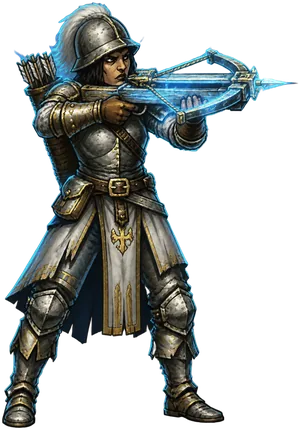
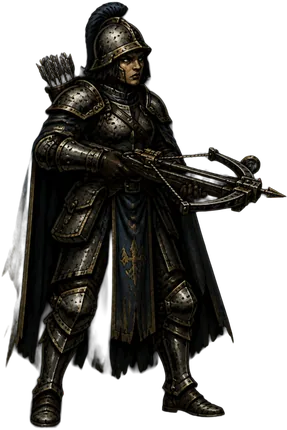
Arbalétrière : armure palier V repeinte
Claude-Session: https://claude.ai/code/session_01XuxscubMSQPeew8BrSfQGu

diff --git a/index.html b/index.html
@@ -211,7 +211,7 @@ p{margin:6px 0;line-height:1.45}
 <div id="boot"><div class="bootin"><img src="assets/ui_emblem.webp" alt="" onerror="this.remove()"><h1>Couronne de Cendres</h1><div class="bootbar"><i></i></div><div class="boottxt">Les braises s'allument…</div><button class="btn ghost sm" id="bootskip" style="display:none">Continuer sans attendre</button></div></div>
 <div id="toasts" aria-live="polite"></div>
 <script>window.CC_SW = 1;</script><script>
-window.ART_LIST=["bg_abime","bg_bastion","bg_bastion2","bg_bourg","bg_catacombes","bg_citadelle","bg_foret","bg_marais","bg_terres","bg_titre","bld_academie","bld_chapelle","bld_fonderie","bld_forge","bld_menagerie","bld_porte","bld_taverne","hero_arbaletriere_chasseresse","hero_arbaletriere_t1","hero_arbaletriere_t2","hero_arbaletriere_t3","hero_arbaletriere_t4","hero_arbaletriere_t5","hero_arbaletriere_tireuse_elite","hero_berserker_chef_guerre","hero_berserker_ecorcheur","hero_berserker_t1","hero_berserker_t2","hero_berserker_t3","hero_berserker_t4","hero_berserker_t5","hero_chasseur_sorcieres_purificateur","hero_chasseur_sorcieres_t1","hero_chasseur_sorcieres_t2","hero_chasseur_sorcieres_t3","hero_chasseur_sorcieres_t4","hero_chasseur_sorcieres_t5","hero_chasseur_sorcieres_traqueur","hero_exorciste_confesseur","hero_exorciste_penitent","hero_exorciste_t1","hero_exorciste_t2","hero_exorciste_t3","hero_exorciste_t4","hero_exorciste_t5","hero_gardien_runes_forge_tonnerre","hero_gardien_runes_t1","hero_gardien_runes_t2","hero_gardien_runes_t3","hero_gardien_runes_t4","hero_gardien_runes_t5","hero_gardien_runes_thane_pierre","hero_hallebardier_garde_roi","hero_hallebardier_lansquenet","hero_hallebardier_t1","hero_hallebardier_t2","hero_hallebardier_t3","hero_hallebardier_t4","hero_hallebardier_t5","hero_medecin_peste_apothicaire","hero_medecin_peste_chirurgien","hero_medecin_peste_t1","hero_medecin_peste_t2","hero_medecin_peste_t3","hero_medecin_peste_t4","hero_medecin_peste_t5","hero_menestrel_chantre","hero_menestrel_heraut","hero_menestrel_t1","hero_menestrel_t2","hero_menestrel_t3","hero_menestrel_t4","hero_menestrel_t5","hero_necromancien_liche","hero_necromancien_maitre_tombes","hero_necromancien_t1","hero_necromancien_t2","hero_necromancien_t3","hero_necromancien_t4","hero_necromancien_t5","hero_ombre_assassin","hero_ombre_ombre_sang","hero_ombre_t1","hero_ombre_t2","hero_ombre_t3","hero_ombre_t4","hero_ombre_t5","hero_pretresse_martyre","hero_pretresse_sainte","hero_pretresse_t1","hero_pretresse_t2","hero_pretresse_t3","hero_pretresse_t4","hero_pretresse_t5","hero_pyromancien_archimage","hero_pyromancien_demoniste","hero_pyromancien_t1","hero_pyromancien_t2","hero_pyromancien_t3","hero_pyromancien_t4","hero_pyromancien_t5","hero_revenant_seigneur_sang","hero_revenant_spectre","hero_revenant_t1","hero_revenant_t2","hero_revenant_t3","hero_revenant_t4","hero_revenant_t5","hero_sorciere_druidesse","hero_sorciere_sorciere_noire","hero_sorciere_t1","hero_sorciere_t2","hero_sorciere_t3","hero_sorciere_t4","hero_sorciere_t5","hero_templier_bastion","hero_templier_inquisiteur","hero_templier_t1","hero_templier_t2","hero_templier_t3","hero_templier_t4","hero_templier_t5","map_boss","map_camp","map_combat","map_elite","map_event","map_shop","map_treasure","mon_abbe","mon_alpha","mon_araignee","mon_archer","mon_archer_os","mon_archonte_cendres","mon_boucher","mon_bourreau","mon_brigand","mon_cardinal","mon_charognard","mon_chevalier_dechu","mon_chevalier_os","mon_chevaucheur_calcine","mon_chien_cendre","mon_colosse_braise","mon_crapaud","mon_cultiste","mon_devoreur_lumiere","mon_diablotin","mon_docteur","mon_dryade","mon_follet","mon_gargouille","mon_golem","mon_goule","mon_hallebardier_os","mon_horreur","mon_hydre","mon_inquisiteur","mon_liche","mon_loup","mon_matrone_os","mon_mere_noyes","mon_mere_ronces","mon_moine_flagellant","mon_necrophage","mon_noye","mon_oeil","mon_ogre","mon_pecheur","mon_pendu","mon_penitent_ardent","mon_pestifere","mon_pretre_suie","mon_prieur","mon_profond","mon_rat","mon_reine_sabbat","mon_roi","mon_sangsue","mon_sans_nom","mon_sans_visage","mon_sentinelle_obsidienne","mon_sorciere_marais","mon_spectre","mon_squelette","mon_thuriferaire","pet_araignee","pet_araignee_evo","pet_belette","pet_cerf","pet_cerf_evo","pet_chat_noir","pet_chat_noir_evo","pet_chauve_souris","pet_chauve_souris_evo","pet_chouette","pet_chouette_evo","pet_corbeau","pet_corbeau_evo","pet_crapaud","pet_crapaud_evo","pet_drake","pet_drake_evo","pet_feu_follet","pet_feu_follet_evo","pet_gargouille","pet_gargouille_evo","pet_griffon","pet_griffon_evo","pet_loup","pet_loup_evo","pet_molosse","pet_molosse_evo","pet_ours","pet_ours_evo","pet_renard","pet_renard_evo","pet_salamandre","pet_salamandre_evo","pet_sanglier","pet_sanglier_evo","pet_vipere","pet_vipere_evo","tr_amulette_sel","tr_bague_fer","tr_cape_brume","tr_chapelet","tr_cloche_morte","tr_coeur_braise","tr_coeur_roi","tr_couronne_epines","tr_crane_saint","tr_croc_vampire","tr_dent_loup","tr_ecu_brise","tr_fiole_sang","tr_fragment_couronne","tr_gant_bourreau","tr_griffe_ombre","tr_herbe_rare","tr_oeil_abime","tr_oeil_verre","tr_phylactere","tr_pierre_ame","tr_plume_corbeau","tr_relique_aube","tr_sablier","tr_sceau_rouge","ui_aim","ui_amulet","ui_anvil","ui_armor","ui_axe","ui_back","ui_bag","ui_banner","ui_bark","ui_bell","ui_bird","ui_bless","ui_blood","ui_bolt","ui_bones","ui_book","ui_boom","ui_camp","ui_castle","ui_chain","ui_chapel","ui_charge","ui_chest","ui_claw","ui_cleanse","ui_cloak","ui_coin","ui_crown","ui_cup","ui_curse","ui_dagger","ui_daily","ui_dice","ui_drain","ui_ember","ui_emblem","ui_essence","ui_eye","ui_fang","ui_fear","ui_feather","ui_fire","ui_flames","ui_flare","ui_flask","ui_flee","ui_frost","ui_furnace","ui_gear","ui_gem","ui_ghost","ui_glove","ui_guard","ui_hammer","ui_hand","ui_heal","ui_heart","ui_helm","ui_herb","ui_horn","ui_hourglass","ui_iron","ui_knives","ui_link","ui_lock","ui_lute","ui_mace","ui_map","ui_mark","ui_mask","ui_meteor","ui_moon","ui_music","ui_note","ui_pact","ui_paw","ui_pawn","ui_pierce","ui_pillar","ui_potion","ui_quest","ui_rage","ui_rain","ui_ray","ui_ring","ui_riposte","ui_root","ui_rosary","ui_run","ui_sanct","ui_scroll","ui_scythe","ui_seal","ui_shard","ui_shield","ui_shroud","ui_skull","ui_skullc","ui_smoke","ui_sound","ui_star","ui_stun","ui_sun","ui_sword","ui_swords","ui_tavern","ui_thorn","ui_torch","ui_trap","ui_tree","ui_trophy","ui_vial","ui_wall","ui_weapon","ui_whirl","ui_wind","wpn_arbalete","wpn_baton","wpn_croix","wpn_dagues","wpn_encensoir","wpn_espadon","wpn_faucille","wpn_faux","wpn_grimoire","wpn_hache","wpn_hallebarde","wpn_luth","wpn_marteau","wpn_masse","wpn_rapiere"];window.ART_META={"hero_arbaletriere_chasseresse": 0.019,"hero_arbaletriere_t1": 0.009,"hero_arbaletriere_t2": 0.009,"hero_arbaletriere_t3": 0.007,"hero_arbaletriere_t4": 0.007,"hero_arbaletriere_t5": 0.009,"hero_arbaletriere_tireuse_elite": 0.007,"hero_berserker_chef_guerre": 0.03,"hero_berserker_ecorcheur": 0.007,"hero_berserker_t1": 0.014,"hero_berserker_t2": 0.009,"hero_berserker_t3": 0.009,"hero_berserker_t4": 0.007,"hero_berserker_t5": 0.007,"hero_chasseur_sorcieres_purificateur": 0.056,"hero_chasseur_sorcieres_t1": 0.007,"hero_chasseur_sorcieres_t2": 0.009,"hero_chasseur_sorcieres_t3": 0.007,"hero_chasseur_sorcieres_t4": 0.007,"hero_chasseur_sorcieres_t5": 0.012,"hero_chasseur_sorcieres_traqueur": 0.007,"hero_exorciste_confesseur": 0.005,"hero_exorciste_penitent": 0.028,"hero_exorciste_t1": 0.04,"hero_exorciste_t2": 0.065,"hero_exorciste_t3": 0.074,"hero_exorciste_t4": 0.072,"hero_exorciste_t5": 0.03,"hero_gardien_runes_forge_tonnerre": 0.023,"hero_gardien_runes_t1": 0.014,"hero_gardien_runes_t2": 0.012,"hero_gardien_runes_t3": 0.014,"hero_gardien_runes_t4": 0.014,"hero_gardien_runes_t5": 0.035,"hero_gardien_runes_thane_pierre": 0.014,"hero_hallebardier_garde_roi": 0.016,"hero_hallebardier_lansquenet": 0.028,"hero_hallebardier_t1": 0.012,"hero_hallebardier_t2": 0.012,"hero_hallebardier_t3": 0.012,"hero_hallebardier_t4": 0.021,"hero_hallebardier_t5": 0.014,"hero_medecin_peste_apothicaire": 0.005,"hero_medecin_peste_chirurgien": 0.005,"hero_medecin_peste_t1": 0.007,"hero_medecin_peste_t2": 0.005,"hero_medecin_peste_t3": 0.005,"hero_medecin_peste_t4": 0.005,"hero_medecin_peste_t5": 0.005,"hero_menestrel_chantre": 0.007,"hero_menestrel_heraut": 0.13,"hero_menestrel_t1": 0.007,"hero_menestrel_t2": 0.005,"hero_menestrel_t3": 0.007,"hero_menestrel_t4": 0.012,"hero_menestrel_t5": 0.007,"hero_necromancien_liche": 0.014,"hero_necromancien_maitre_tombes": 0.079,"hero_necromancien_t1": 0.009,"hero_necromancien_t2": 0.016,"hero_necromancien_t3": 0.016,"hero_necromancien_t4": 0.016,"hero_necromancien_t5": 0.012,"hero_ombre_assassin": 0.007,"hero_ombre_ombre_sang": 0.009,"hero_ombre_t1": 0.009,"hero_ombre_t2": 0.009,"hero_ombre_t3": 0.009,"hero_ombre_t4": 0.009,"hero_ombre_t5": 0.007,"hero_pretresse_martyre": 0.102,"hero_pretresse_sainte": 0.07,"hero_pretresse_t1": 0.079,"hero_pretresse_t2": 0.1,"hero_pretresse_t3": 0.121,"hero_pretresse_t4": 0.091,"hero_pretresse_t5": 0.06,"hero_pyromancien_archimage": 0.007,"hero_pyromancien_demoniste": 0.051,"hero_pyromancien_t1": 0.009,"hero_pyromancien_t2": 0.007,"hero_pyromancien_t3": 0.007,"hero_pyromancien_t4": 0.007,"hero_pyromancien_t5": 0.026,"hero_revenant_seigneur_sang": 0.151,"hero_revenant_spectre": 0.114,"hero_revenant_t1": 0.109,"hero_revenant_t2": 0.151,"hero_revenant_t3": 0.156,"hero_revenant_t4": 0.149,"hero_revenant_t5": 0.095,"hero_sorciere_druidesse": 0.051,"hero_sorciere_sorciere_noire": 0.028,"hero_sorciere_t1": 0.007,"hero_sorciere_t2": 0.014,"hero_sorciere_t3": 0.012,"hero_sorciere_t4": 0.009,"hero_sorciere_t5": 0.019,"hero_templier_bastion": 0.021,"hero_templier_inquisiteur": 0.007,"hero_templier_t1": 0.007,"hero_templier_t2": 0.007,"hero_templier_t3": 0.005,"hero_templier_t4": 0.026,"hero_templier_t5": 0.009};window.SFX_LIST=["amb_abime","amb_bastion","amb_bourg","amb_catacombes","amb_citadelle","amb_foret","amb_marais","fx_bell","fx_coin","fx_crit","fx_dark","fx_die","fx_door","fx_fire","fx_forge","fx_heal","fx_heavy","fx_hit","fx_holy","fx_miss","fx_open","fx_shoot","fx_slash","fx_step"];window.ART_FLIP=["mon_archer_os","mon_moine_flagellant","mon_spectre","hero_ombre_assassin","hero_ombre_ombre_sang","mon_cardinal"];
+window.ART_LIST=["bg_abime","bg_bastion","bg_bastion2","bg_bourg","bg_catacombes","bg_citadelle","bg_foret","bg_marais","bg_terres","bg_titre","bld_academie","bld_chapelle","bld_fonderie","bld_forge","bld_menagerie","bld_porte","bld_taverne","hero_arbaletriere_chasseresse","hero_arbaletriere_t1","hero_arbaletriere_t2","hero_arbaletriere_t3","hero_arbaletriere_t4","hero_arbaletriere_t5","hero_arbaletriere_tireuse_elite","hero_berserker_chef_guerre","hero_berserker_ecorcheur","hero_berserker_t1","hero_berserker_t2","hero_berserker_t3","hero_berserker_t4","hero_berserker_t5","hero_chasseur_sorcieres_purificateur","hero_chasseur_sorcieres_t1","hero_chasseur_sorcieres_t2","hero_chasseur_sorcieres_t3","hero_chasseur_sorcieres_t4","hero_chasseur_sorcieres_t5","hero_chasseur_sorcieres_traqueur","hero_exorciste_confesseur","hero_exorciste_penitent","hero_exorciste_t1","hero_exorciste_t2","hero_exorciste_t3","hero_exorciste_t4","hero_exorciste_t5","hero_gardien_runes_forge_tonnerre","hero_gardien_runes_t1","hero_gardien_runes_t2","hero_gardien_runes_t3","hero_gardien_runes_t4","hero_gardien_runes_t5","hero_gardien_runes_thane_pierre","hero_hallebardier_garde_roi","hero_hallebardier_lansquenet","hero_hallebardier_t1","hero_hallebardier_t2","hero_hallebardier_t3","hero_hallebardier_t4","hero_hallebardier_t5","hero_medecin_peste_apothicaire","hero_medecin_peste_chirurgien","hero_medecin_peste_t1","hero_medecin_peste_t2","hero_medecin_peste_t3","hero_medecin_peste_t4","hero_medecin_peste_t5","hero_menestrel_chantre","hero_menestrel_heraut","hero_menestrel_t1","hero_menestrel_t2","hero_menestrel_t3","hero_menestrel_t4","hero_menestrel_t5","hero_necromancien_liche","hero_necromancien_maitre_tombes","hero_necromancien_t1","hero_necromancien_t2","hero_necromancien_t3","hero_necromancien_t4","hero_necromancien_t5","hero_ombre_assassin","hero_ombre_ombre_sang","hero_ombre_t1","hero_ombre_t2","hero_ombre_t3","hero_ombre_t4","hero_ombre_t5","hero_pretresse_martyre","hero_pretresse_sainte","hero_pretresse_t1","hero_pretresse_t2","hero_pretresse_t3","hero_pretresse_t4","hero_pretresse_t5","hero_pyromancien_archimage","hero_pyromancien_demoniste","hero_pyromancien_t1","hero_pyromancien_t2","hero_pyromancien_t3","hero_pyromancien_t4","hero_pyromancien_t5","hero_revenant_seigneur_sang","hero_revenant_spectre","hero_revenant_t1","hero_revenant_t2","hero_revenant_t3","hero_revenant_t4","hero_revenant_t5","hero_sorciere_druidesse","hero_sorciere_sorciere_noire","hero_sorciere_t1","hero_sorciere_t2","hero_sorciere_t3","hero_sorciere_t4","hero_sorciere_t5","hero_templier_bastion","hero_templier_inquisiteur","hero_templier_t1","hero_templier_t2","hero_templier_t3","hero_templier_t4","hero_templier_t5","map_boss","map_camp","map_combat","map_elite","map_event","map_shop","map_treasure","mon_abbe","mon_alpha","mon_araignee","mon_archer","mon_archer_os","mon_archonte_cendres","mon_boucher","mon_bourreau","mon_brigand","mon_cardinal","mon_charognard","mon_chevalier_dechu","mon_chevalier_os","mon_chevaucheur_calcine","mon_chien_cendre","mon_colosse_braise","mon_crapaud","mon_cultiste","mon_devoreur_lumiere","mon_diablotin","mon_docteur","mon_dryade","mon_follet","mon_gargouille","mon_golem","mon_goule","mon_hallebardier_os","mon_horreur","mon_hydre","mon_inquisiteur","mon_liche","mon_loup","mon_matrone_os","mon_mere_noyes","mon_mere_ronces","mon_moine_flagellant","mon_necrophage","mon_noye","mon_oeil","mon_ogre","mon_pecheur","mon_pendu","mon_penitent_ardent","mon_pestifere","mon_pretre_suie","mon_prieur","mon_profond","mon_rat","mon_reine_sabbat","mon_roi","mon_sangsue","mon_sans_nom","mon_sans_visage","mon_sentinelle_obsidienne","mon_sorciere_marais","mon_spectre","mon_squelette","mon_thuriferaire","pet_araignee","pet_araignee_evo","pet_belette","pet_cerf","pet_cerf_evo","pet_chat_noir","pet_chat_noir_evo","pet_chauve_souris","pet_chauve_souris_evo","pet_chouette","pet_chouette_evo","pet_corbeau","pet_corbeau_evo","pet_crapaud","pet_crapaud_evo","pet_drake","pet_drake_evo","pet_feu_follet","pet_feu_follet_evo","pet_gargouille","pet_gargouille_evo","pet_griffon","pet_griffon_evo","pet_loup","pet_loup_evo","pet_molosse","pet_molosse_evo","pet_ours","pet_ours_evo","pet_renard","pet_renard_evo","pet_salamandre","pet_salamandre_evo","pet_sanglier","pet_sanglier_evo","pet_vipere","pet_vipere_evo","tr_amulette_sel","tr_bague_fer","tr_cape_brume","tr_chapelet","tr_cloche_morte","tr_coeur_braise","tr_coeur_roi","tr_couronne_epines","tr_crane_saint","tr_croc_vampire","tr_dent_loup","tr_ecu_brise","tr_fiole_sang","tr_fragment_couronne","tr_gant_bourreau","tr_griffe_ombre","tr_herbe_rare","tr_oeil_abime","tr_oeil_verre","tr_phylactere","tr_pierre_ame","tr_plume_corbeau","tr_relique_aube","tr_sablier","tr_sceau_rouge","ui_aim","ui_amulet","ui_anvil","ui_armor","ui_axe","ui_back","ui_bag","ui_banner","ui_bark","ui_bell","ui_bird","ui_bless","ui_blood","ui_bolt","ui_bones","ui_book","ui_boom","ui_camp","ui_castle","ui_chain","ui_chapel","ui_charge","ui_chest","ui_claw","ui_cleanse","ui_cloak","ui_coin","ui_crown","ui_cup","ui_curse","ui_dagger","ui_daily","ui_dice","ui_drain","ui_ember","ui_emblem","ui_essence","ui_eye","ui_fang","ui_fear","ui_feather","ui_fire","ui_flames","ui_flare","ui_flask","ui_flee","ui_frost","ui_furnace","ui_gear","ui_gem","ui_ghost","ui_glove","ui_guard","ui_hammer","ui_hand","ui_heal","ui_heart","ui_helm","ui_herb","ui_horn","ui_hourglass","ui_iron","ui_knives","ui_link","ui_lock","ui_lute","ui_mace","ui_map","ui_mark","ui_mask","ui_meteor","ui_moon","ui_music","ui_note","ui_pact","ui_paw","ui_pawn","ui_pierce","ui_pillar","ui_potion","ui_quest","ui_rage","ui_rain","ui_ray","ui_ring","ui_riposte","ui_root","ui_rosary","ui_run","ui_sanct","ui_scroll","ui_scythe","ui_seal","ui_shard","ui_shield","ui_shroud","ui_skull","ui_skullc","ui_smoke","ui_sound","ui_star","ui_stun","ui_sun","ui_sword","ui_swords","ui_tavern","ui_thorn","ui_torch","ui_trap","ui_tree","ui_trophy","ui_vial","ui_wall","ui_weapon","ui_whirl","ui_wind","wpn_arbalete","wpn_baton","wpn_croix","wpn_dagues","wpn_encensoir","wpn_espadon","wpn_faucille","wpn_faux","wpn_grimoire","wpn_hache","wpn_hallebarde","wpn_luth","wpn_marteau","wpn_masse","wpn_rapiere"];window.ART_META={"hero_arbaletriere_chasseresse": 0.019,"hero_arbaletriere_t1": 0.009,"hero_arbaletriere_t2": 0.009,"hero_arbaletriere_t3": 0.007,"hero_arbaletriere_t4": 0.007,"hero_arbaletriere_t5": 0.007,"hero_arbaletriere_tireuse_elite": 0.007,"hero_berserker_chef_guerre": 0.03,"hero_berserker_ecorcheur": 0.007,"hero_berserker_t1": 0.014,"hero_berserker_t2": 0.009,"hero_berserker_t3": 0.009,"hero_berserker_t4": 0.007,"hero_berserker_t5": 0.007,"hero_chasseur_sorcieres_purificateur": 0.056,"hero_chasseur_sorcieres_t1": 0.007,"hero_chasseur_sorcieres_t2": 0.009,"hero_chasseur_sorcieres_t3": 0.007,"hero_chasseur_sorcieres_t4": 0.007,"hero_chasseur_sorcieres_t5": 0.012,"hero_chasseur_sorcieres_traqueur": 0.007,"hero_exorciste_confesseur": 0.005,"hero_exorciste_penitent": 0.028,"hero_exorciste_t1": 0.04,"hero_exorciste_t2": 0.065,"hero_exorciste_t3": 0.074,"hero_exorciste_t4": 0.072,"hero_exorciste_t5": 0.03,"hero_gardien_runes_forge_tonnerre": 0.023,"hero_gardien_runes_t1": 0.014,"hero_gardien_runes_t2": 0.012,"hero_gardien_runes_t3": 0.014,"hero_gardien_runes_t4": 0.014,"hero_gardien_runes_t5": 0.035,"hero_gardien_runes_thane_pierre": 0.014,"hero_hallebardier_garde_roi": 0.016,"hero_hallebardier_lansquenet": 0.028,"hero_hallebardier_t1": 0.012,"hero_hallebardier_t2": 0.012,"hero_hallebardier_t3": 0.012,"hero_hallebardier_t4": 0.021,"hero_hallebardier_t5": 0.014,"hero_medecin_peste_apothicaire": 0.005,"hero_medecin_peste_chirurgien": 0.005,"hero_medecin_peste_t1": 0.007,"hero_medecin_peste_t2": 0.005,"hero_medecin_peste_t3": 0.005,"hero_medecin_peste_t4": 0.005,"hero_medecin_peste_t5": 0.005,"hero_menestrel_chantre": 0.007,"hero_menestrel_heraut": 0.13,"hero_menestrel_t1": 0.007,"hero_menestrel_t2": 0.005,"hero_menestrel_t3": 0.007,"hero_menestrel_t4": 0.012,"hero_menestrel_t5": 0.007,"hero_necromancien_liche": 0.014,"hero_necromancien_maitre_tombes": 0.079,"hero_necromancien_t1": 0.009,"hero_necromancien_t2": 0.016,"hero_necromancien_t3": 0.016,"hero_necromancien_t4": 0.016,"hero_necromancien_t5": 0.012,"hero_ombre_assassin": 0.007,"hero_ombre_ombre_sang": 0.009,"hero_ombre_t1": 0.009,"hero_ombre_t2": 0.009,"hero_ombre_t3": 0.009,"hero_ombre_t4": 0.009,"hero_ombre_t5": 0.007,"hero_pretresse_martyre": 0.102,"hero_pretresse_sainte": 0.07,"hero_pretresse_t1": 0.079,"hero_pretresse_t2": 0.1,"hero_pretresse_t3": 0.121,"hero_pretresse_t4": 0.091,"hero_pretresse_t5": 0.06,"hero_pyromancien_archimage": 0.007,"hero_pyromancien_demoniste": 0.051,"hero_pyromancien_t1": 0.009,"hero_pyromancien_t2": 0.007,"hero_pyromancien_t3": 0.007,"hero_pyromancien_t4": 0.007,"hero_pyromancien_t5": 0.026,"hero_revenant_seigneur_sang": 0.151,"hero_revenant_spectre": 0.114,"hero_revenant_t1": 0.109,"hero_revenant_t2": 0.151,"hero_revenant_t3": 0.156,"hero_revenant_t4": 0.149,"hero_revenant_t5": 0.095,"hero_sorciere_druidesse": 0.051,"hero_sorciere_sorciere_noire": 0.028,"hero_sorciere_t1": 0.007,"hero_sorciere_t2": 0.014,"hero_sorciere_t3": 0.012,"hero_sorciere_t4": 0.009,"hero_sorciere_t5": 0.019,"hero_templier_bastion": 0.021,"hero_templier_inquisiteur": 0.007,"hero_templier_t1": 0.007,"hero_templier_t2": 0.007,"hero_templier_t3": 0.005,"hero_templier_t4": 0.026,"hero_templier_t5": 0.009};window.SFX_LIST=["amb_abime","amb_bastion","amb_bourg","amb_catacombes","amb_citadelle","amb_foret","amb_marais","fx_bell","fx_coin","fx_crit","fx_dark","fx_die","fx_door","fx_fire","fx_forge","fx_heal","fx_heavy","fx_hit","fx_holy","fx_miss","fx_open","fx_shoot","fx_slash","fx_step"];window.ART_FLIP=["mon_archer_os","mon_moine_flagellant","mon_spectre","hero_ombre_assassin","hero_ombre_ombre_sang","mon_cardinal"];
 /* ═══════════════════════ Couronne de Cendres — utilitaires ═══════════════════════ */
 "use strict";
 const HASWIN = typeof window !== "undefined" && typeof document !== "undefined";

diff --git a/sw.js b/sw.js
@@ -1,5 +1,5 @@
 /* Service worker : le jeu fonctionne hors connexion une fois installé. */
-const CACHE = "couronne-cendres-10aded9825", ART_CACHE = "couronne-cendres-art-939a6bb5";
+const CACHE = "couronne-cendres-a1edae1ab1", ART_CACHE = "couronne-cendres-art-efe9809a";
 const SHELL = ["./", "./index.html", "./manifest.webmanifest", "./icon-192.png", "./icon-512.png", "./icon-maskable-512.png", "./apple-touch-icon.png", "./favicon-64.png"];
 self.addEventListener("install", e => { e.waitUntil(caches.open(CACHE).then(c => c.addAll(SHELL)).then(() => self.skipWaiting())); });
 self.addEventListener("activate", e => { e.waitUntil(caches.keys().then(ks => Promise.all(ks.filter(k => k !== CACHE && k !== ART_CACHE).map(k => caches.delete(k)))).then(() => self.clients.claim())); });
